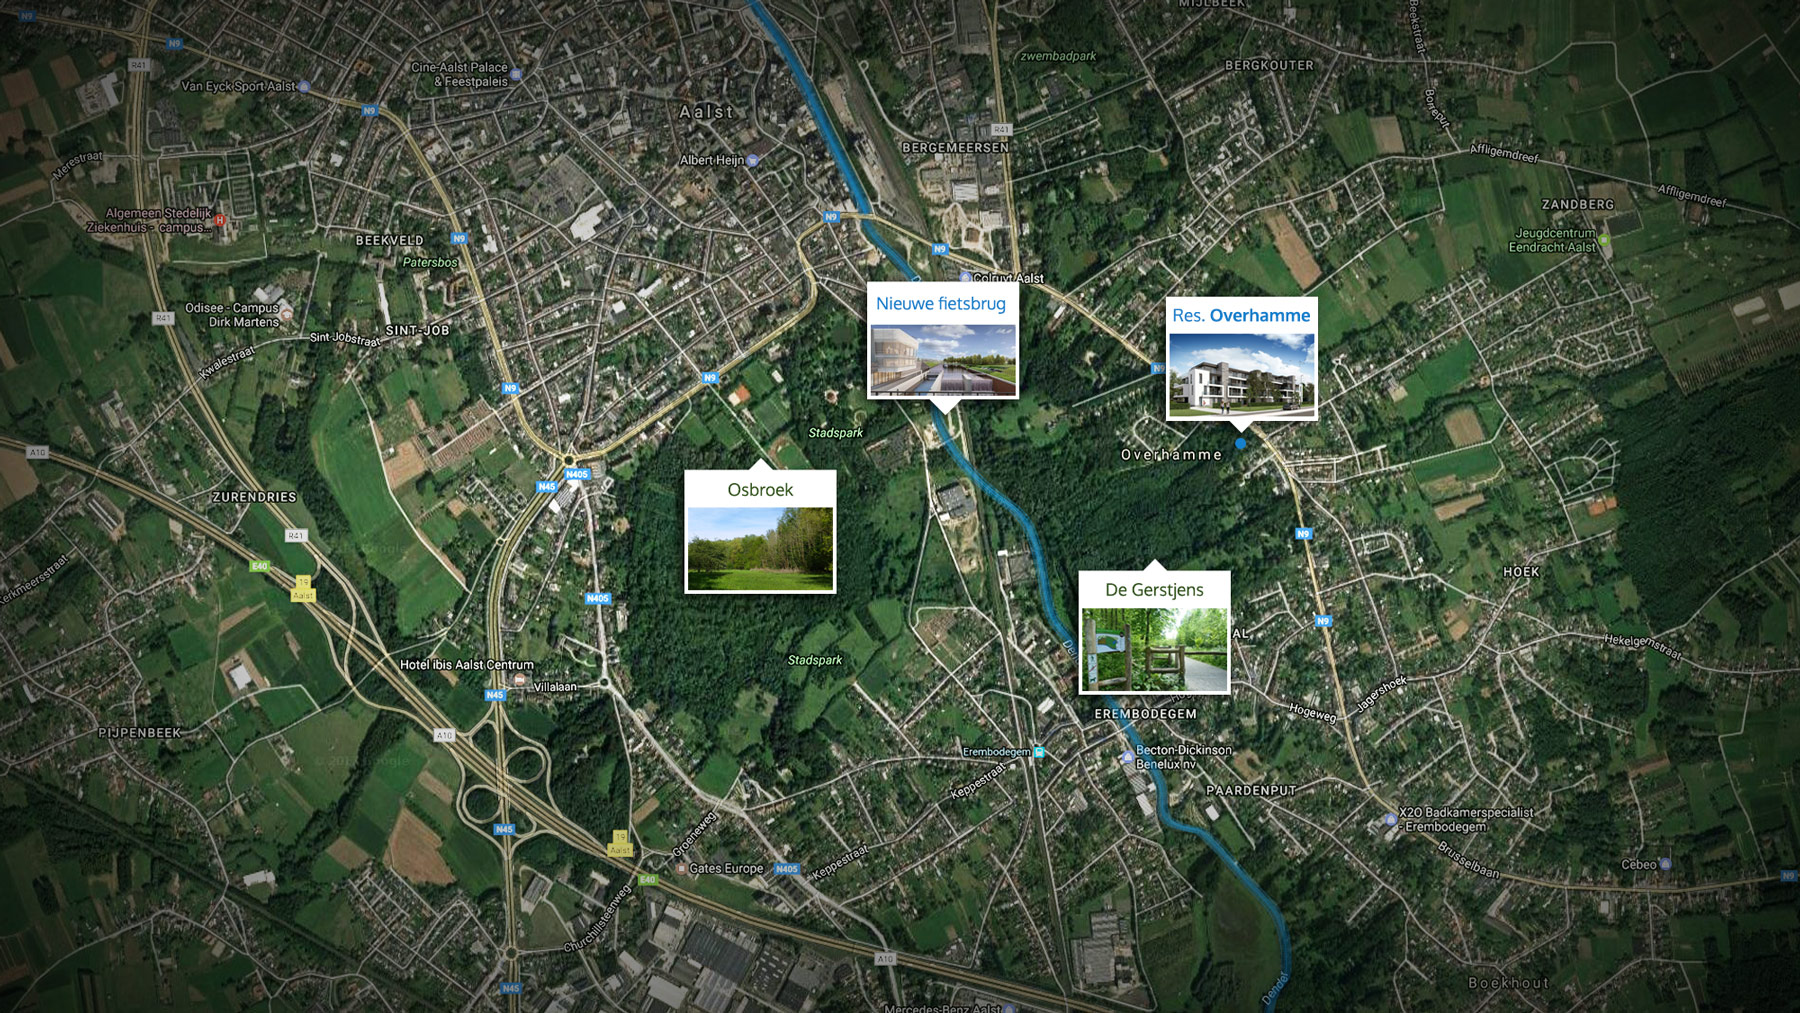
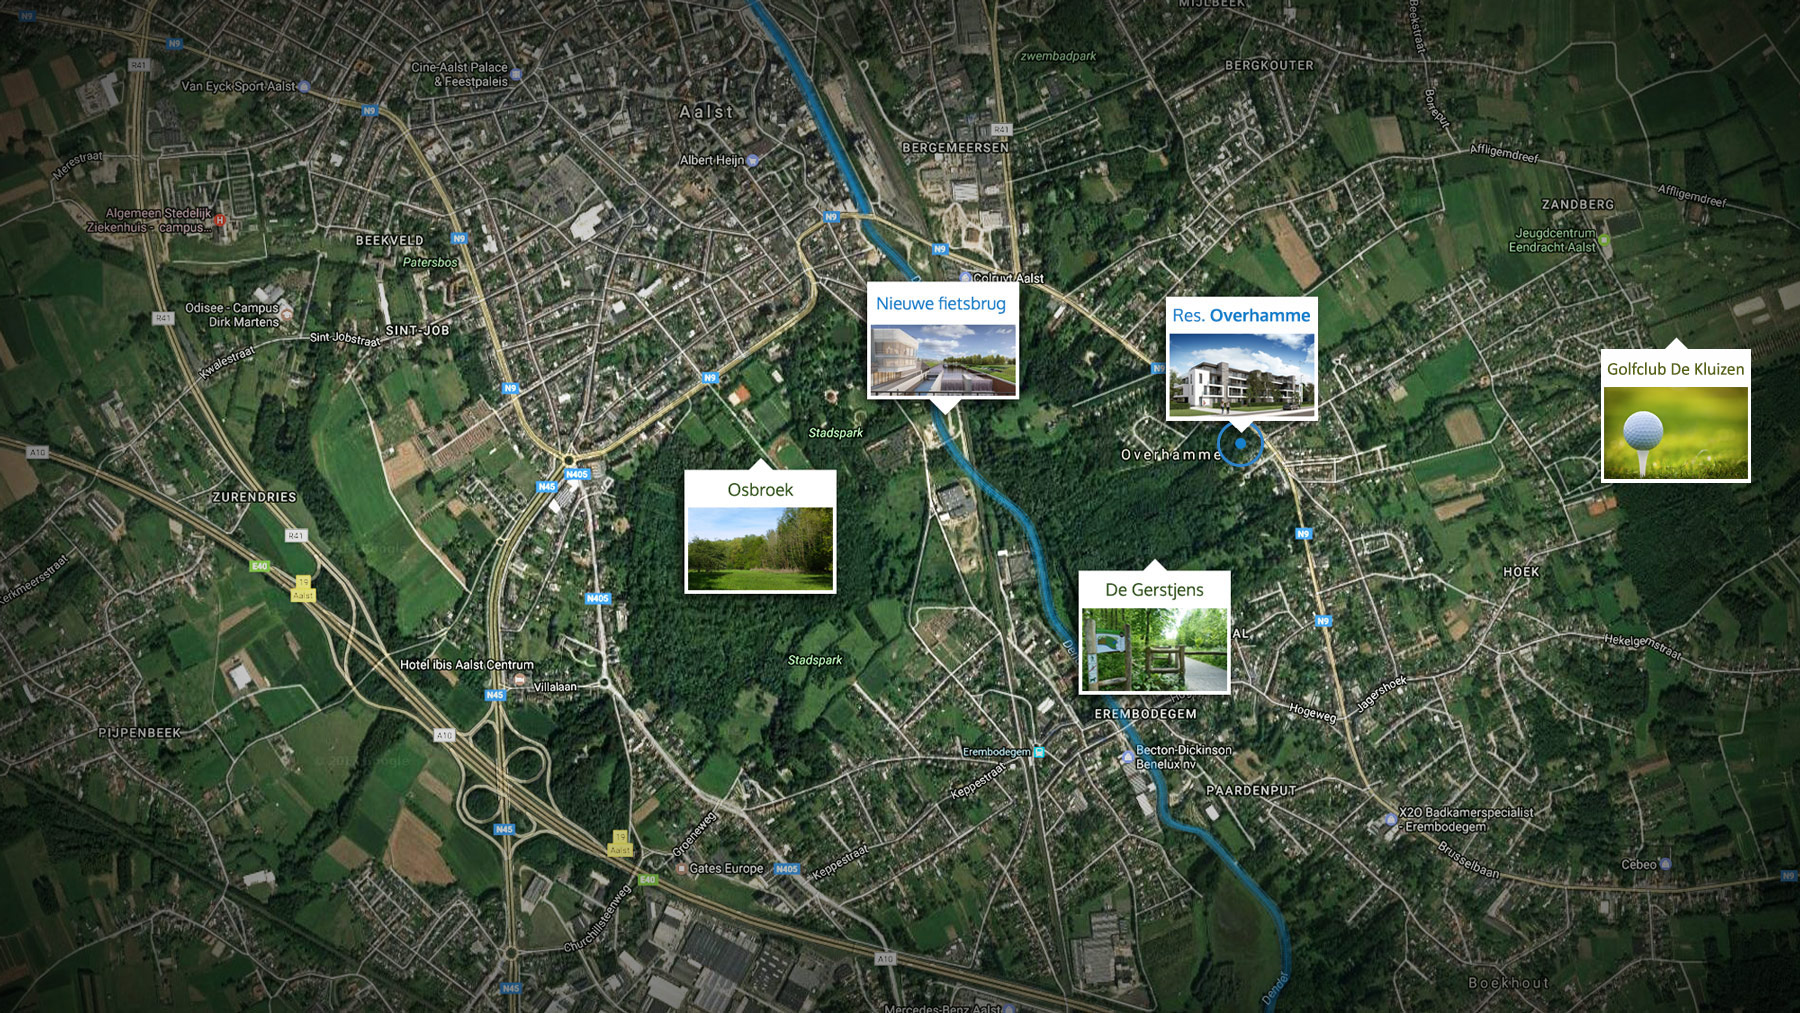
(Grav GitSync) Automatic Commit from admin

Changed region(s): [[0.8711, 0.3366, 0.9956, 0.4896]]

diff --git a/pages/01.home/04._met-een-voet-in-de-natuur/default.md b/pages/01.home/04._met-een-voet-in-de-natuur/default.md
@@ -4,6 +4,6 @@ menu: Ligging
 visible: true
 ---
 
-Daarom kozen we ook voor deze ligging: opnieuw aan de rand van de stad, vlot te bereiken, praktisch en handig. Snel de stad in, snel de stad uit. Maar ook met één voet in de natuur: letterlijk in uw achtertuin begint het stedelijk natuurreservaat de Gerstjens, dat net op een recreatievriendelijke manier heraangelegd werd. Door de nieuwe voetgangersbrug over de Dender sluit het netwerk van voet- en fietswegen naadloos aan op de Osbroek, het stadpark en de sportsite Schotte. Of brengt het u helemaal tot in het hart van de stad zelf.
+Daarom kozen we ook voor deze ligging: opnieuw aan de rand van de stad, vlot te bereiken, praktisch en handig. Snel de stad in, snel de stad uit. Maar ook met één voet in de natuur: letterlijk in uw achtertuin begint het stedelijk natuurreservaat de Gerstjens, dat net op een recreatievriendelijke manier heraangelegd werd. Door de nieuwe voetgangersbrug over de Dender sluit het netwerk van voet- en fietswegen naadloos aan op de Osbroek, het stadpark en de sportsite Schotte. Of brengt het u helemaal tot in het hart van de stad zelf. In de dichte nabijheid vindt u eveneens golfclub ‘De Kluizen’.
 
 Daarom kiezen we opnieuw voor een project met een opvallende eigen identiteit, grote woonoppervlaktes, hoge plafonds, overvloedig verlichte woonruimtes, bijna eindeloze en zuidgerichte buitenterrassen, een groene omgeving die u geen dagelijks onderhoud vraagt, privacy en een gevoel van veiligheid. Auto en fietsen veilig en gemakkelijk in de zeer ruime ondergrondse garage, bus voor de deur, allerlei winkelmogelijkheden, banken, restaurants, … binnen een straal van nauwelijks een kilometer. Alle medische en zorgvoorzieningen bij de hand.
